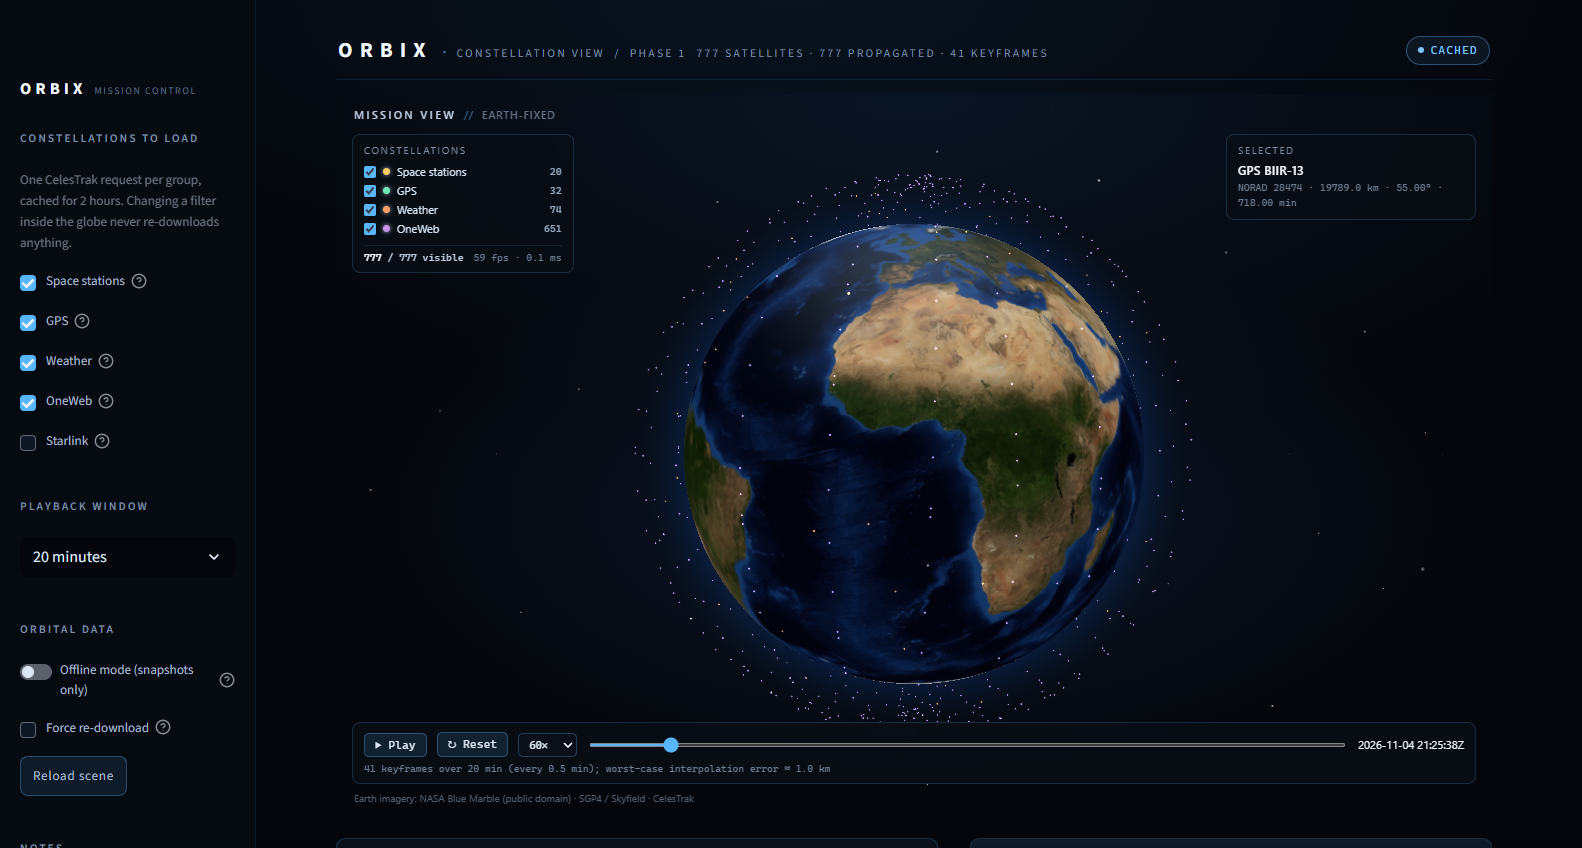
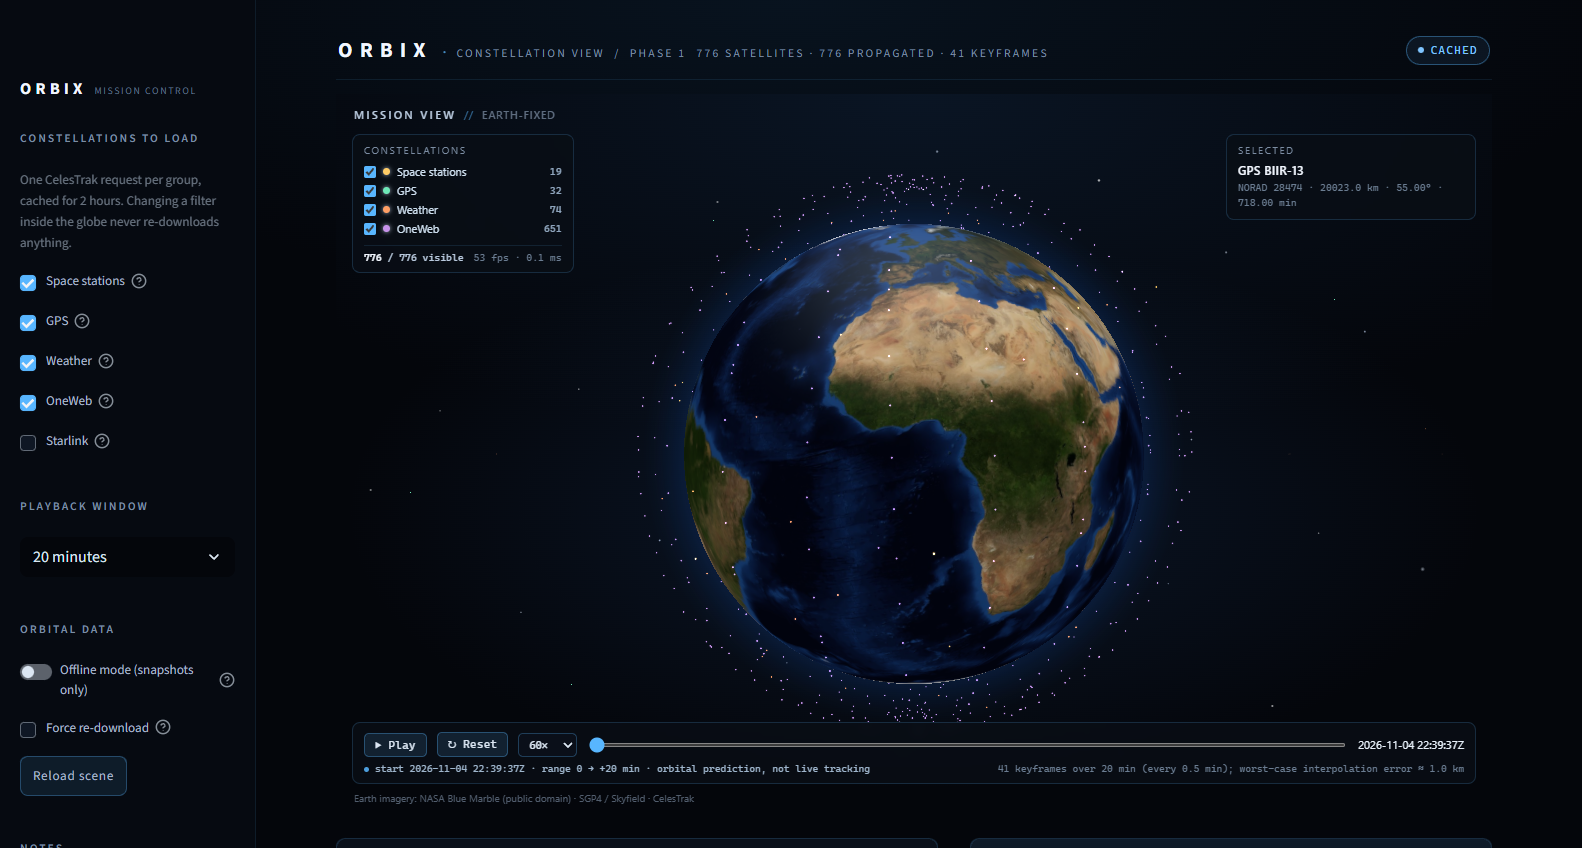
test(ui): assert reset, trails, quiet playback and forward labelling in a real browser
The smoke test now verifies the Phase 1 completion criteria in headless Chrome rather than only Python: positions move on Play, Reset restores the exact starting vertices and returns tNorm to 0, the selected satellite gets a 121-point trail, the range label shows a forward window, and playback loads no new page resources and writes no new CelesTrak snapshot (proving no API traffic and no Streamlit rerun).

Also refreshes the screenshot and records the CelesTrak STATIONS snapshot taken during testing (the live group genuinely changed from 20 to 19 objects).

Measured on this machine with software WebGL: 776 satellites ~52 fps; 11,957 satellites 26.7 / 47.8 / 52.6 fps across three runs at 1.4-1.6 ms per frame update.

Changed region(s): [[0.2478, 0.8585, 0.5575, 0.9198], [0.6504, 0.8892, 0.8673, 0.9198]]

diff --git a/scripts/smoke_test_ui.py b/scripts/smoke_test_ui.py
@@ -84,11 +84,25 @@ return {
   simTime: o.simTime ? o.simTime.toISOString() : null,
   drawnCalls: o.state.globe ? o.state.globe.renderer().info.render.calls : null,
   vertex0: o.layer ? Array.from(o.layer.positions.slice(0, 3)) : null,
+  paths: o.state.globe ? o.state.globe.pathsData().length : 0,
+  pathPoints: (o.state.globe && o.state.globe.pathsData()[0])
+      ? o.state.globe.pathsData()[0].points.length : 0,
+  tNorm: o.state.tNorm,
+  clock: (document.getElementById('sim-clock') || {}).textContent,
+  rangeLabel: (document.getElementById('window-range') || {}).textContent,
+  resourceCount: performance.getEntriesByType('resource').length,
   selectedName: (document.getElementById('selected-name') || {}).textContent,
   statusHidden: (document.getElementById('status') || {}).classList
       ? document.getElementById('status').classList.contains('hidden') : null,
 };
 """
+
+
+def _snapshot_state(directory: Path) -> dict[str, int]:
+    """name -> size for the committed CelesTrak snapshots."""
+    if not directory.exists():
+        return {}
+    return {p.name: p.stat().st_size for p in sorted(directory.glob("*.json"))}
 
 
 def run_browser_checks(url: str, timeout: float, settle: float, headful: bool,
@@ -195,32 +209,99 @@ def _interaction_checks(driver, initial: dict, report: dict, failures: list[str]
 
     # --- selection -------------------------------------------------------- #
     driver.execute_script("window.__orbix.select(5);")
-    time.sleep(0.3)
+    # The trail arrives with the payload on the Streamlit rerun that the click
+    # triggers, so poll for it rather than assuming it is instantaneous.
+    deadline = time.time() + 20
     selected = driver.execute_script(PROBE)
+    while time.time() < deadline and not selected.get("paths"):
+        time.sleep(0.5)
+        selected = driver.execute_script(PROBE)
     report["selected"] = {
         "index": selected["selection"],
         "norad_id": selected["selectedId"],
         "panel": selected["selectedName"],
+        "paths": selected["paths"],
+        "path_points": selected["pathPoints"],
     }
     if selected["selection"] != 5:
         failures.append("selecting index 5 did not update the layer selection")
     if selected["selectedName"] in (None, "", "click a satellite"):
         failures.append("the selection panel was not updated")
+    # The selected satellite must get its full orbital-period trail (~93 min -> 121 pts).
+    if selected["paths"] < 1:
+        failures.append("no orbit trail was drawn for the selected satellite")
+    elif selected["pathPoints"] < 100:
+        failures.append(
+            f"selected trail looks truncated ({selected['pathPoints']} points)")
 
     # --- playback --------------------------------------------------------- #
+    snapshots_before = _snapshot_state(REPO_ROOT / "data" / "snapshots")
     before = selected["vertex0"]
     sim_before = selected["simTime"]
+    resources_before = selected["resourceCount"]
+
     driver.execute_script("window.__orbix.setPlaying(true);")
-    time.sleep(2.0)
+    time.sleep(2.5)
     playing = driver.execute_script(PROBE)
     driver.execute_script("window.__orbix.setPlaying(false);")
-    report["playing"] = {"simTime": playing["simTime"], "moved": playing["vertex0"] != before}
+    report["playing"] = {
+        "sim_before": sim_before,
+        "sim_after": playing["simTime"],
+        "moved": playing["vertex0"] != before,
+    }
     if not playing["playing"]:
         failures.append("playback did not start")
     if playing["simTime"] == sim_before:
         failures.append("the simulation clock did not advance")
     if playing["vertex0"] == before:
         failures.append("satellite positions did not move during playback")
+
+    # Playback must not reach the network or trigger a Streamlit rerun: no new
+    # resources loaded in the page, and no new CelesTrak snapshot written.
+    if playing["resourceCount"] != resources_before:
+        failures.append(
+            f"playback loaded {playing['resourceCount'] - resources_before} new "
+            "resource(s); it should be purely client-side")
+    snapshots_after = _snapshot_state(REPO_ROOT / "data" / "snapshots")
+    new_snapshots = sorted(set(snapshots_after) - set(snapshots_before))
+    report["api_quiet"] = {
+        "new_resources": playing["resourceCount"] - resources_before,
+        "new_snapshots": new_snapshots,
+    }
+    if new_snapshots:
+        failures.append(f"playback wrote new snapshots: {new_snapshots}")
+
+    # --- reset ------------------------------------------------------------ #
+    driver.execute_script("window.__orbix.setTime(0.6);")
+    time.sleep(0.3)
+    advanced = driver.execute_script(PROBE)
+    driver.execute_script("document.getElementById('reset-button').click();")
+    time.sleep(0.4)
+    reset = driver.execute_script(PROBE)
+    report["reset"] = {
+        "tNorm_before": advanced["tNorm"],
+        "tNorm_after": reset["tNorm"],
+        "back_to_start": reset["vertex0"] == before,
+        "clock": reset["clock"],
+    }
+    if advanced["tNorm"] <= 0.0:
+        failures.append("scrubbing the slider did not move the simulation")
+    if reset["tNorm"] != 0.0:
+        failures.append(f"reset left tNorm at {reset['tNorm']}")
+    if reset["vertex0"] != before:
+        failures.append("reset did not restore the initial positions")
+
+    # --- window labelling (forward-only) ---------------------------------- #
+    report["window"] = {
+        "range_label": reset["rangeLabel"],
+        "clock_at_start": reset["clock"],
+        "sim_at_start": reset["simTime"],
+    }
+    if not reset["rangeLabel"]:
+        failures.append("the playback range label is empty")
+    if reset["rangeLabel"] and "+" not in reset["rangeLabel"]:
+        failures.append(f"range label does not show a forward range: {reset['rangeLabel']}")
+
 
     # --- performance ------------------------------------------------------ #
     time.sleep(0.6)
@@ -267,6 +348,9 @@ def main(argv: list[str] | None = None) -> int:
             "filtered": report.get("filtered"),
             "selected": report.get("selected"),
             "playing": report.get("playing"),
+            "api_quiet": report.get("api_quiet"),
+            "reset": report.get("reset"),
+            "window": report.get("window"),
             "perf": report.get("perf"),
             "severeErrors": report.get("severeErrors"),
         }

diff --git a/docs/technical_decisions.md b/docs/technical_decisions.md
@@ -297,6 +297,39 @@ fastest period in the catalogue) and displayed in both the globe HUD and the Str
 panel. Accuracy degrades visibly rather than silently, and filtering to fewer
 constellations restores fine sampling.
 
+## D19 — Playback is anchored at load time and runs forward
+
+**Decision.** The playback window starts at the instant the scene is built (now, UTC)
+and extends forward by the selected width (10/20/45/90 min). The simulation opens on
+the window start, `Reset` returns to it, and `Play` advances into the future. Orbix is
+labelled as an *orbital prediction* view, never live tracking.
+
+**Rationale.** The first implementation centred the window on now, so pressing Play
+began 10 minutes in the past with nothing on screen saying so. A forward-only window
+matches what "Play" implies (watch what happens next) and makes the start instant
+meaningful.
+
+**Consequence.** The stale-element guard now uses the *far* end of the window
+(`max(|start−epoch|, |end−epoch|)`), because playback can reach 90 minutes beyond the
+anchor. A window change re-anchors to the new now and resets `tNorm` to 0; a
+selection-only rerun deliberately does not (it would jump the simulation).
+
+## D20 — Selection needs one extra rerun, and a "null means no news" rule
+
+**Decision.** When the component returns a selection, `app.py` stores it and calls
+`st.rerun()`; on the front-end, a *null* `payload.selection` on an unchanged scene is
+ignored rather than treated as a deselect.
+
+**Evidence.** The payload is built before the component is called, so the run that
+receives a click still carries the *previous* selection - the selected satellite's
+trail therefore arrived one interaction late. Treating the resulting null as a
+deselect made the highlight flicker off and back on.
+
+**Consequence.** Click → trail in one extra cheap rerun (~97 KB, keyframes omitted);
+the highlight never flickers; repeated events cannot loop because the JS only sends a
+given NORAD ID once and the Python side only reruns when the value actually changes.
+Verified in the browser: selection yields 2 path objects with 121 points.
+
 ---
 
 ## Known limitations (as of end of Step F)
